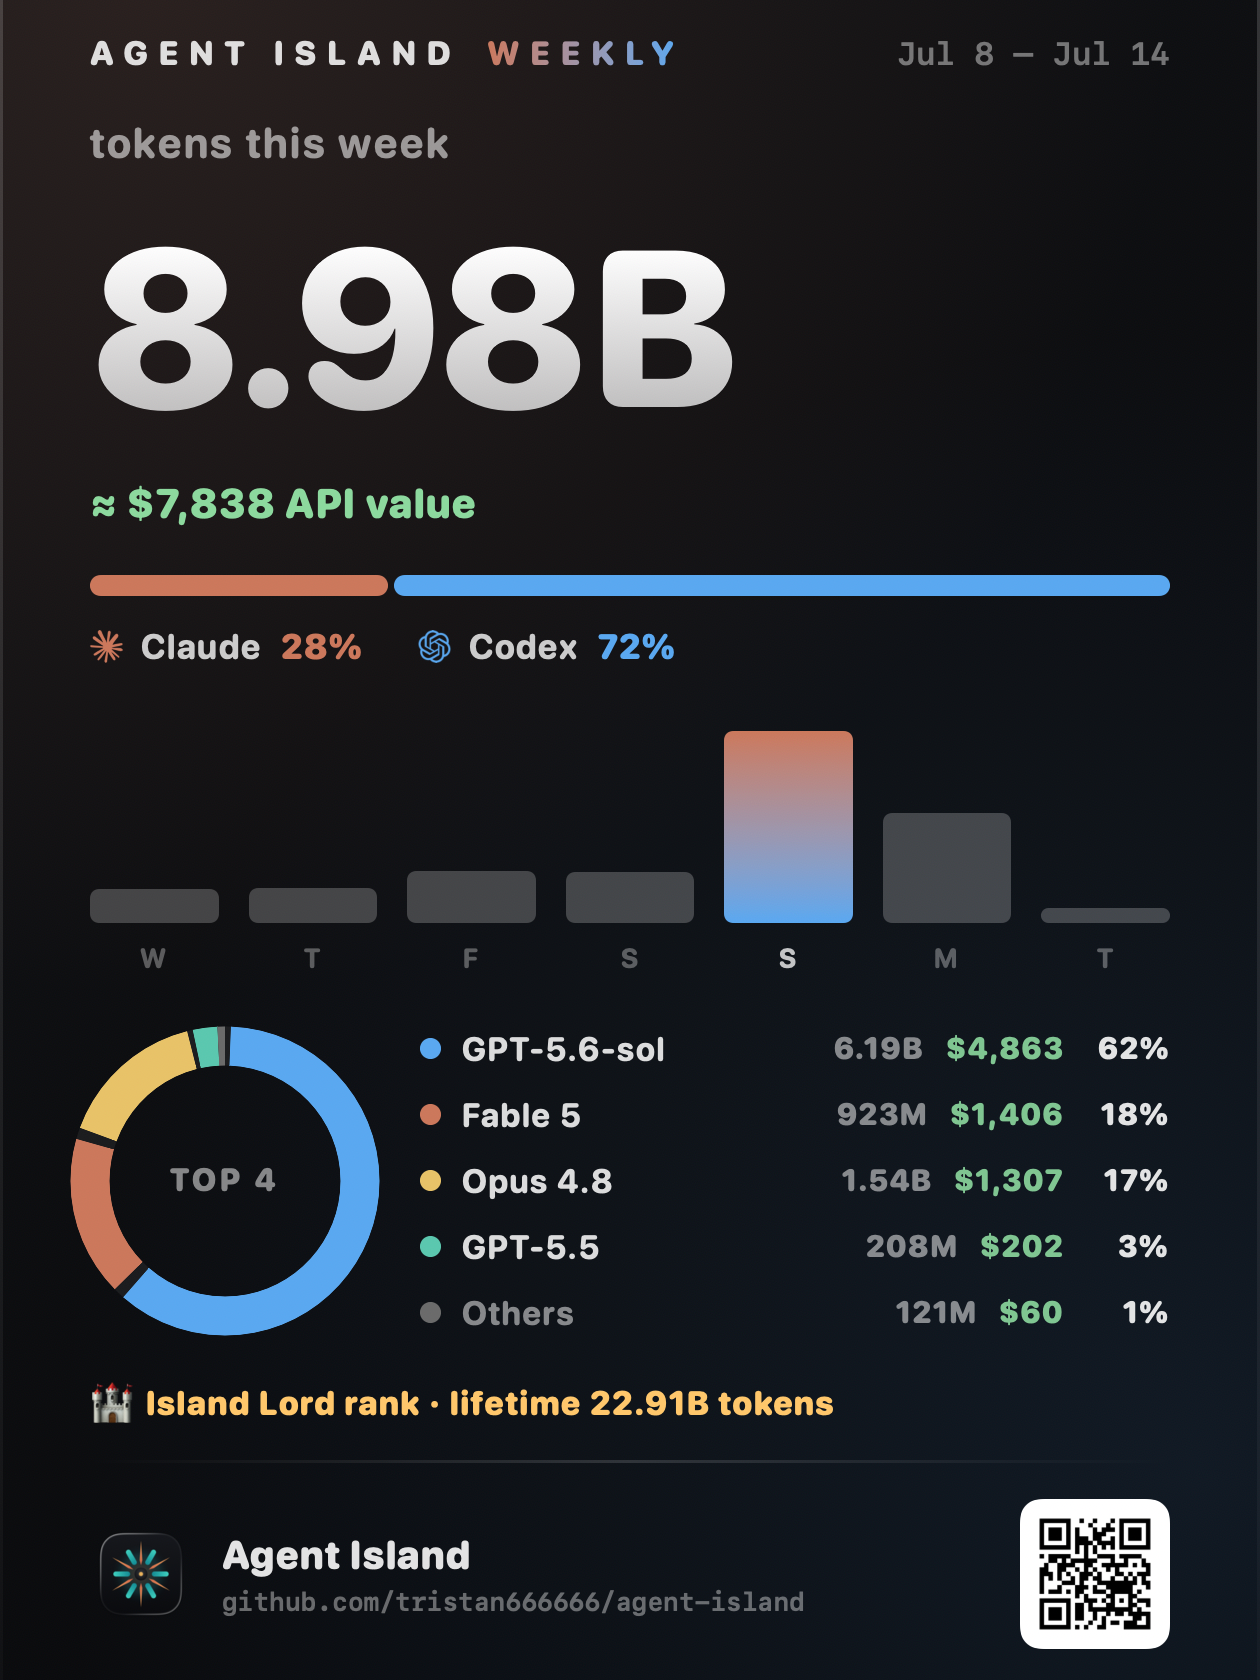
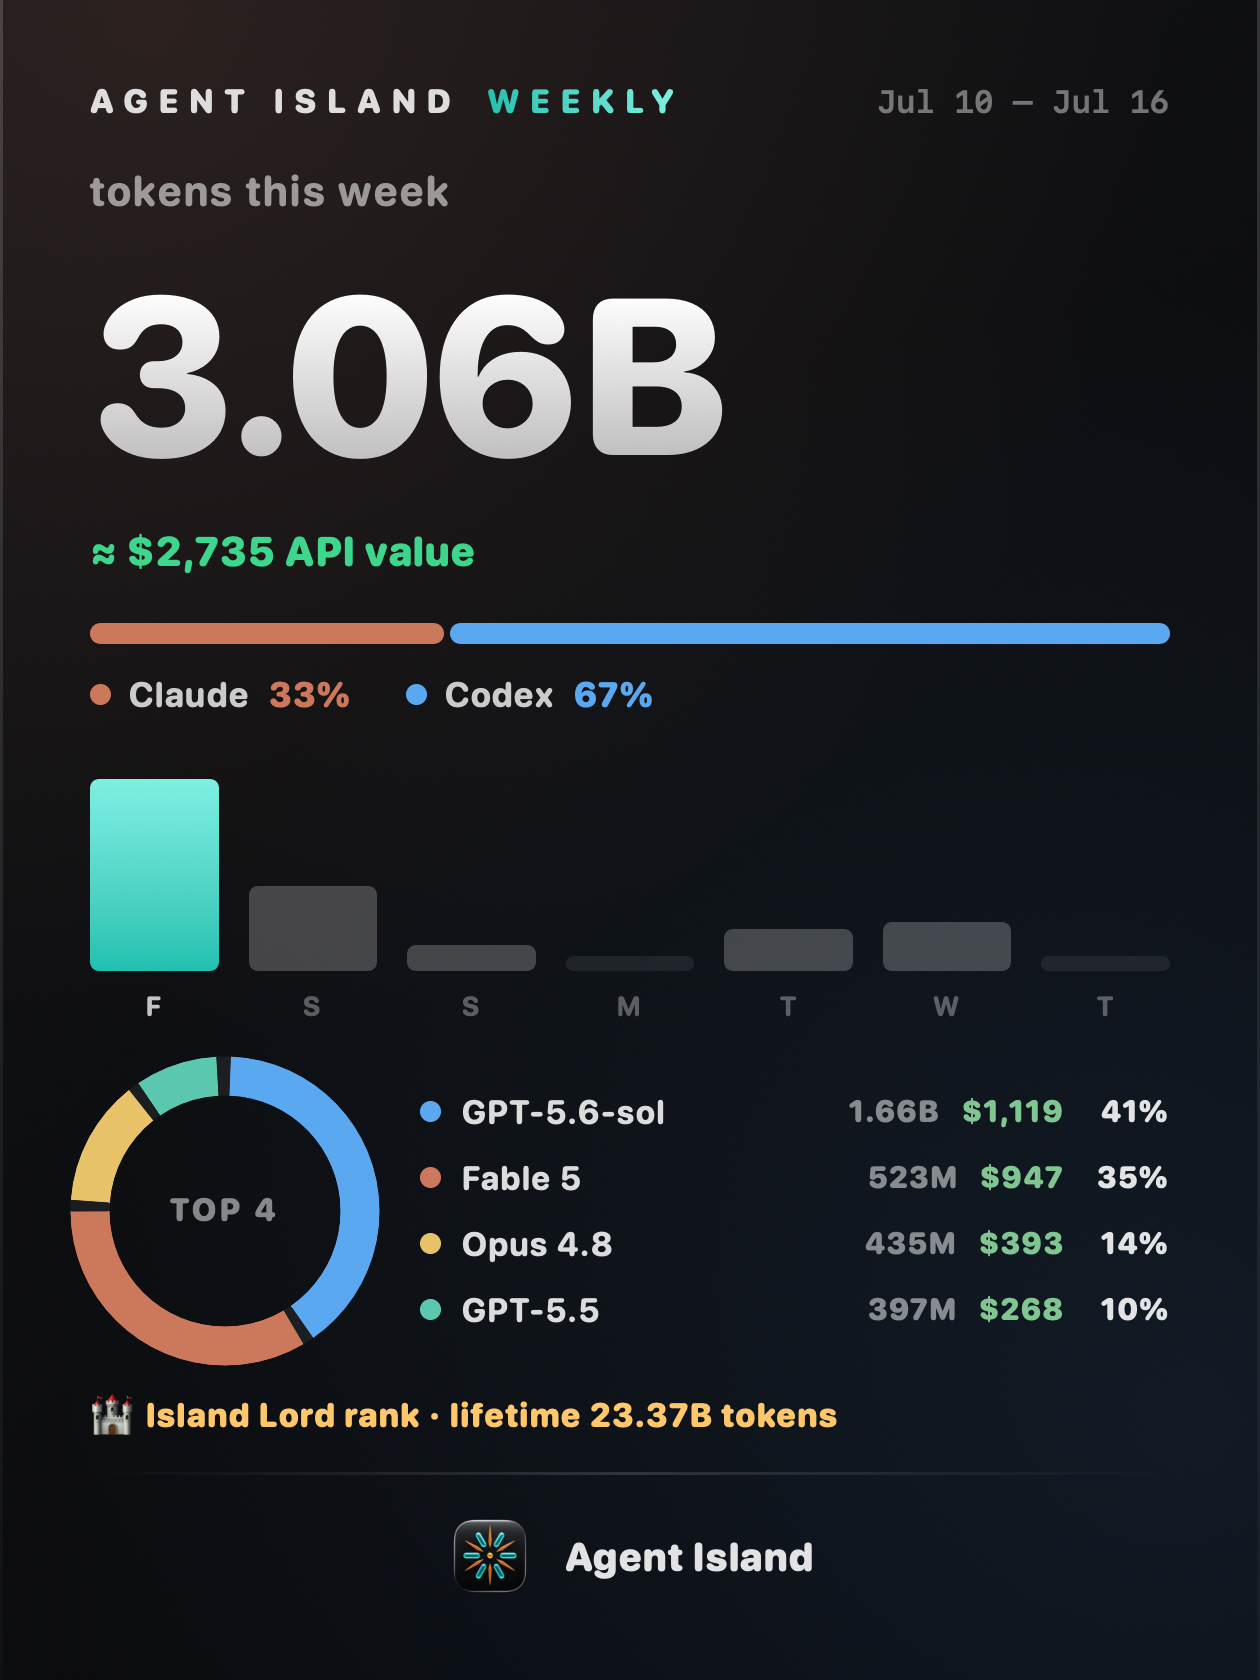
docs: weekly & monthly report cards get their own README section with v2 card images
- New 'Weekly & monthly report cards' section + ToC entry (EN + zh); fills the optimized-WebP placeholder with 840px q82 renders (~35KB each)
- Assets/report-*.png source renders refreshed to card v2 (no QR/URL, teal wordmark, single centered logo)

diff --git a/README.md b/README.md
@@ -95,6 +95,7 @@ Windows build and test instructions are tracked in [issue #10](https://github.co
   - [Status monitoring](#status-monitoring)
   - [It's-your-turn clock](#its-your-turn-clock)
   - [Usage & reports](#usage--reports)
+  - [Weekly & monthly report cards](#weekly--monthly-report-cards)
   - [macOS and Windows](#macos-and-windows)
 - [How it works](#how-it-works)
 - [Community](#community)
@@ -138,12 +139,16 @@ Swipe through local usage and cost views for Claude and Codex. Provider usage da
 
 <img src="Assets/agent-island-usage.png" alt="Agent Island usage view for Claude and Codex on macOS" width="760">
 
-Agent Island also renders weekly and longer-range report cards on your machine. Copying or sharing a card is an explicit user action; Agent Island does not publish it for you.
+### Weekly & monthly report cards
 
-<!-- OPTIMIZED_REPORT_SCREENSHOTS_PLACEHOLDER
-Add README-sized WebP report examples here after export and visual review.
-Do not restore the multi-megabyte PNG pair to the README.
--->
+Shareable cards rendered locally: total tokens with an ≈ API value line, the Claude/Codex split, 7-day bars (weekly) or a 24-week activity heatmap with your streak (monthly), a TOP model breakdown, and your island rank. Copying or sharing a card is an explicit user action; Agent Island does not publish it for you.
+
+<table>
+  <tr>
+    <td align="center"><img src="Assets/report-weekly-en.webp" alt="Weekly report card with demo data: tokens, API value, provider split, model donut, island rank" width="420"></td>
+    <td align="center"><img src="Assets/report-monthly-en.webp" alt="Monthly report card with demo data: 24-week heatmap, streak, island rank" width="420"></td>
+  </tr>
+</table>
 
 ### macOS and Windows
 

diff --git a/README.zh-CN.md b/README.zh-CN.md
@@ -95,6 +95,7 @@ Windows 构建与测试文档正在 [issue #10](https://github.com/tristan666666
   - [状态监视](#状态监视)
   - [轮到你闹钟](#轮到你闹钟)
   - [用量与报告](#用量与报告)
+  - [周报与月报卡片](#周报与月报卡片)
   - [macOS 和 Windows](#macos-和-windows)
 - [工作原理](#工作原理)
 - [社区](#社区)
@@ -138,7 +139,16 @@ Agent Island 把本机 Claude Code、Claude Desktop 和 Codex 的会话活动显
 
 <img src="Assets/agent-island-usage-zh.png" alt="macOS 上的 Claude 和 Codex 用量页面" width="760">
 
-Agent Island 也可以在本机生成周报和更长周期的报告卡。复制或分享都由用户明确触发，Agent Island 不会代替你发布。
+### 周报与月报卡片
+
+在本机渲染的可分享卡片：本期 Token 总量与 ≈ API 费用换算、Claude/Codex 占比、7 天柱状图（周报）或 24 周活跃热力图与连续天数（月报）、TOP 模型环形分布、岛民段位。复制或分享都由用户明确触发，Agent Island 不会代替你发布。
+
+<table>
+  <tr>
+    <td align="center"><img src="Assets/report-weekly-zh.webp" alt="周报卡片（演示数据）：Token 总量、API 费用换算、模型环形图、岛民段位" width="420"></td>
+    <td align="center"><img src="Assets/report-monthly-zh.webp" alt="月报卡片（演示数据）：24 周热力图、连续天数、岛民段位" width="420"></td>
+  </tr>
+</table>
 
 <!-- OPTIMIZED_REPORT_SCREENSHOTS_PLACEHOLDER
 导出并验收 README 专用 WebP 后，再在这里加入报告卡示例。
